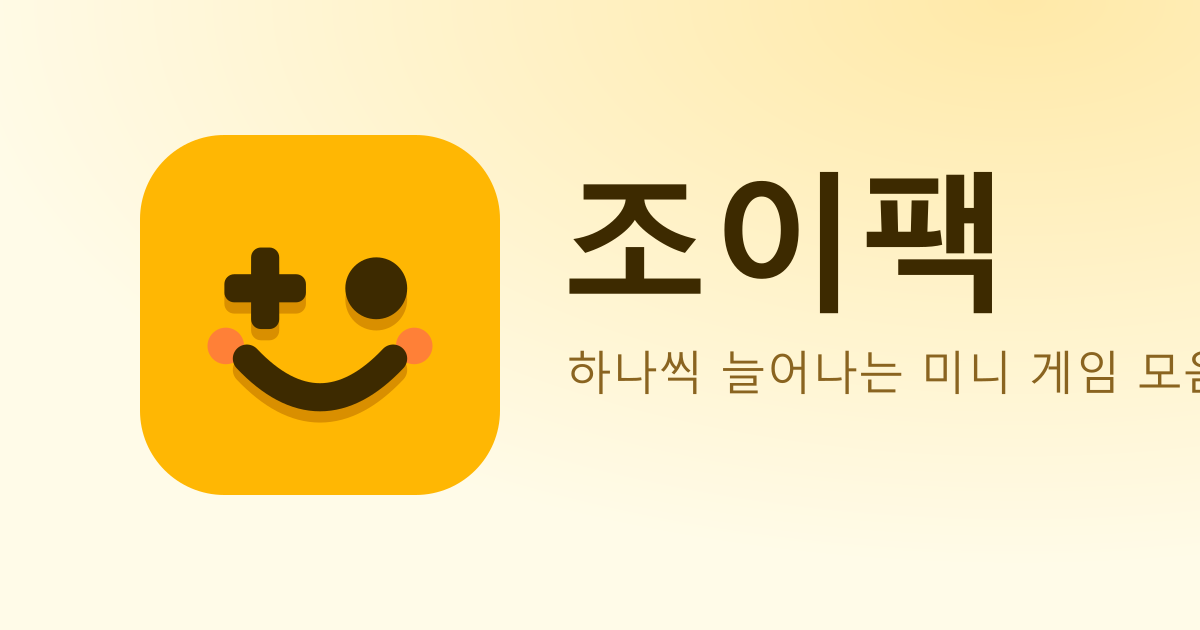
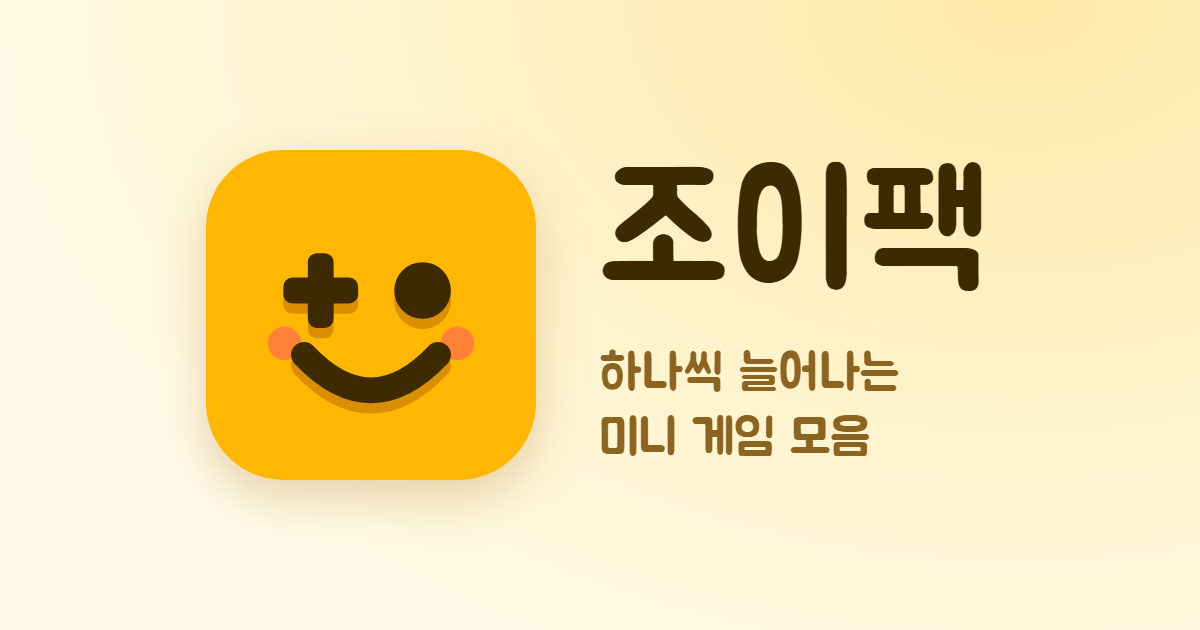
공유 미리보기 이미지(허브 v1.5.7): Jua 글꼴로 Chrome 렌더링, 소개 글 두 줄로 잘림 해결, og:image ?v=2

Changed region(s): [[0.0925, 0.2111, 1.0, 0.8143], [0.4933, 0.6635, 0.74, 0.7238]]

diff --git a/apps/hub/index.html b/apps/hub/index.html
@@ -19,7 +19,7 @@
     <meta property="og:title" content="조이팩 — 미니 게임 모음" />
     <meta property="og:description" content="업다운, 두더지잡기… 하나씩 늘어나는 미니 게임 모음" />
     <meta property="og:url" content="https://myong558.github.io/project-joypack/" />
-    <meta property="og:image" content="https://myong558.github.io/project-joypack/og-image.png" />
+    <meta property="og:image" content="https://myong558.github.io/project-joypack/og-image.png?v=2" />
     <meta property="og:image:width" content="1200" />
     <meta property="og:image:height" content="630" />
     <meta property="og:image:alt" content="조이팩 — 미니 게임 모음" />

diff --git a/README.md b/README.md
@@ -285,6 +285,7 @@ dist/                       → https://myong558.github.io/project-joypack/
 - [x] 두더지잡기 시작 화면(두더지잡기 v0.9.4): 내용이 화면 높이를 넘으면 시작 화면 전체를 줄여(`--fit`, screens.ts fitStart) 도감이 아래로 잘리지 않게 함. 오프닝 망치는 화면 밖(오른쪽 위)에서 날아와 두더지를 치고 제목 오른쪽 제자리로.
 - [x] 두더지잡기 랭킹 창 크기 고정(두더지잡기 v0.9.5): 클래식·오늘의 챌린지 탭을 바꿔도 창 높이가 그대로(열 때 두 탭을 그려 더 큰 높이로 고정, 위 안내 두 줄 자리 확보).
 - [x] 두더지잡기 설치 앱 첫 실행 잘림(두더지잡기 v0.9.6): 처음 열 때 화면 높이만 나중에 줄어들면(창 크기 신호 없음) 맞춤을 놓쳐 도감이 잘리던 것을, 화면 자체·visualViewport·pageshow 도 지켜보다 다시 맞추게 함.
+- [x] 공유 미리보기 이미지(허브 v1.5.7): og-image 를 Chrome 으로 찍어 화면과 같은 Jua 글꼴로(이전엔 sharp 가 웹 글꼴을 못 읽어 기본 글꼴), 소개 글을 두 줄로 나눠 오른쪽이 잘리지 않게 함. 카카오톡 캐시를 피하려 og:image 주소 `?v=2`.
   공유 링크로 게임에 바로 들어온 사람에게는 화면 아래 "조이팩 앱으로 설치하기" 띠(`Joypack.inviteBar`)를 보여 주고, 누르면 허브의 설치 안내 카드로 이어진다
   공유 링크는 `?from=share` 가 붙어, 받은 사람이 열면 첫 화면 맨 위에 설치 안내 카드가 뜬다. 카카오톡 등 앱 안 브라우저에서는 설치가 안 되므로 "브라우저로 열기"(카카오톡은 `kakaotalk://web/openExternal`, 그 밖의 안드로이드 앱은 Chrome intent)로 넘긴다. 아이폰의 앱 안 브라우저는 "Safari로 열기" 안내만 한다
 
